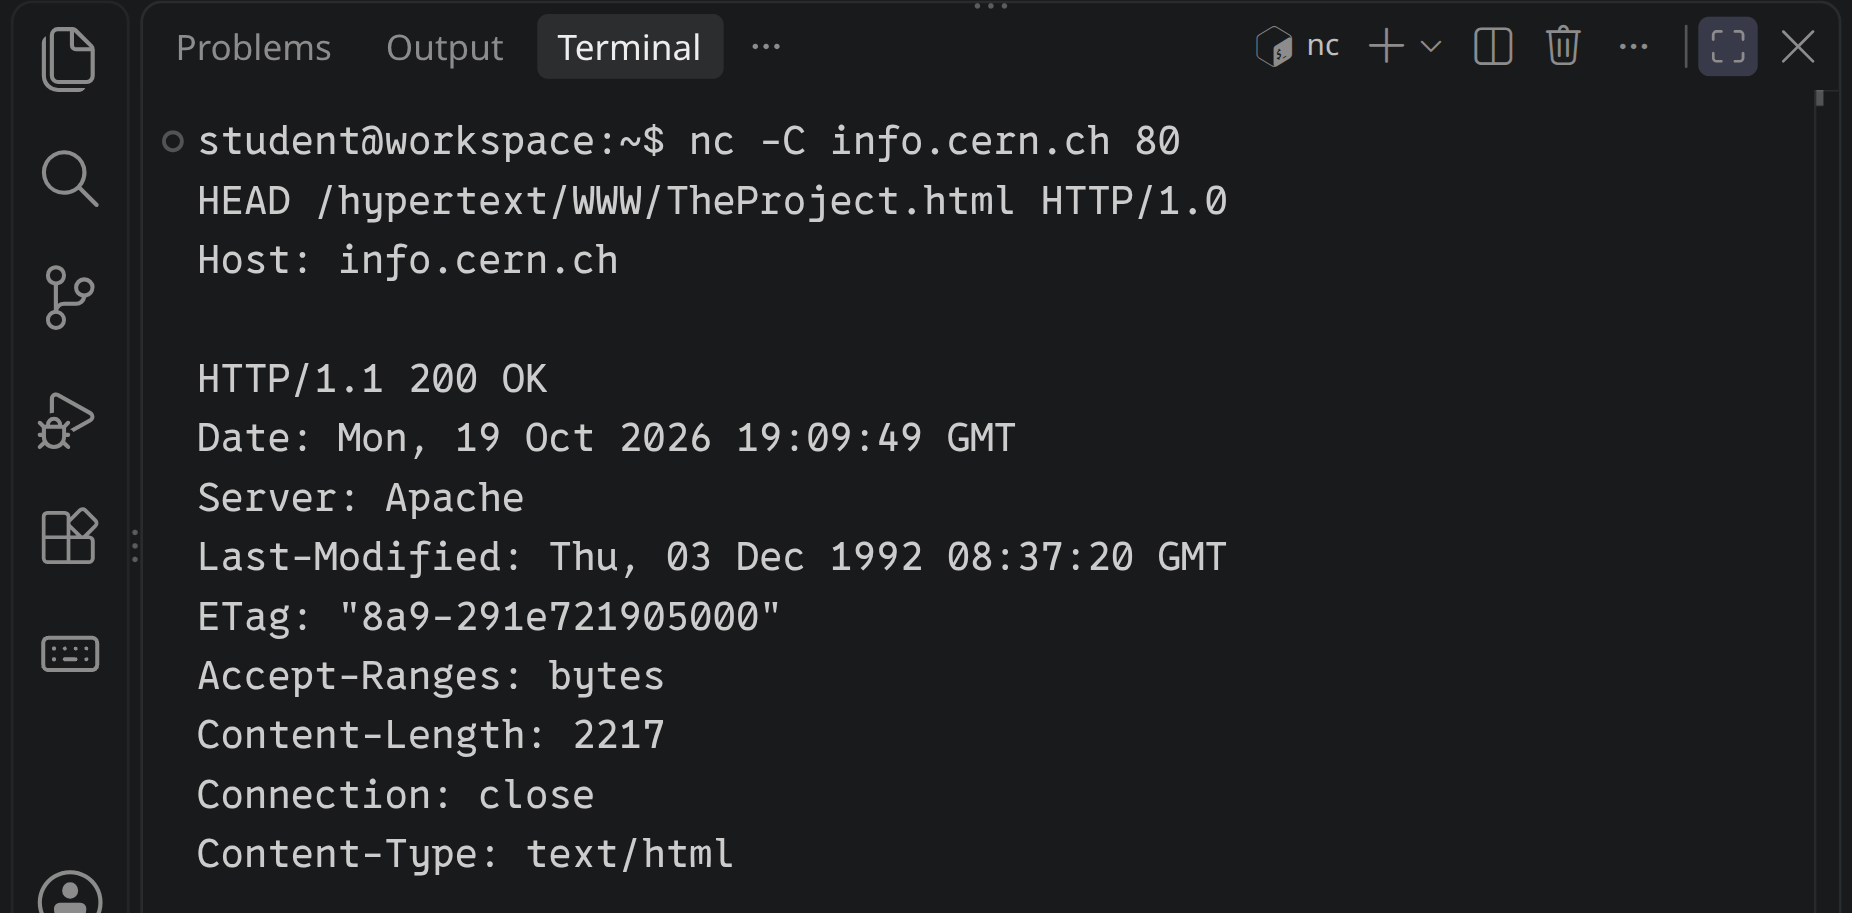
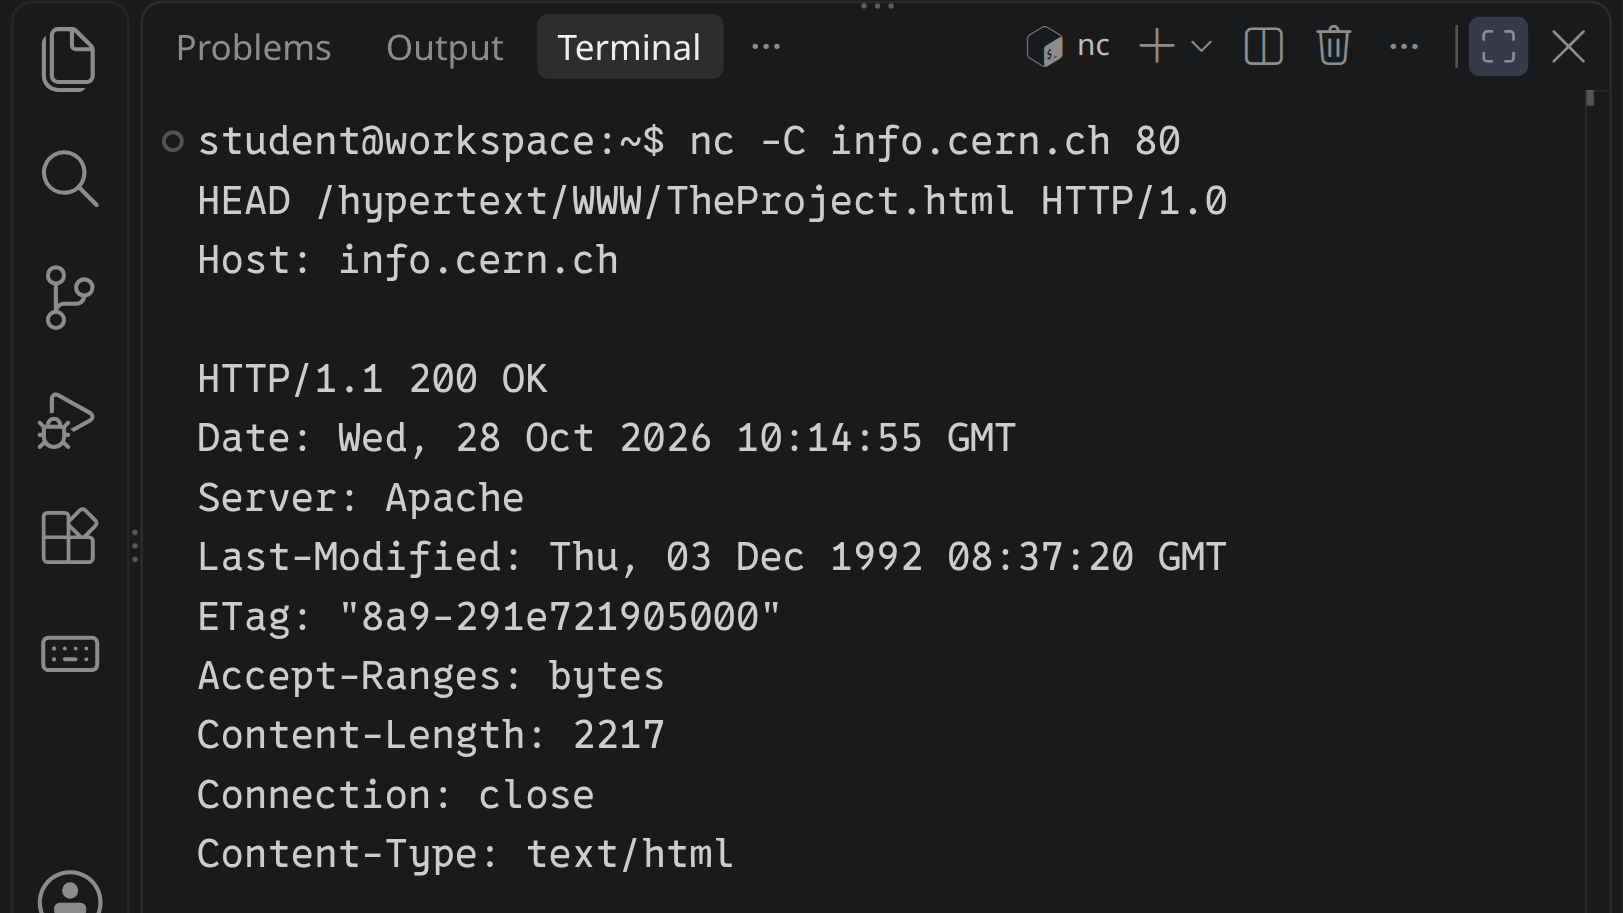
TCP/IP: the card picture 16:9 itself, 902 wide and 13 terminal rows (up to the end of the server's answer), instead of 1029 wide with the card cutting its right side

diff --git a/src/content/tcpip/tcpip.md b/src/content/tcpip/tcpip.md
@@ -1,5 +1,5 @@
 <div class='meta'>
-image: teaser.webp:0:50
+image: teaser.webp
 image_alt: "Ein Terminal, in dem nc eine HTTP-Anfrage an info.cern.ch schickt, darunter die Antwort des Servers"
 kind: labor
 duration: 3 Doppelstunden
@@ -963,9 +963,10 @@ In [Ein eigener Webserver](/webserver) schreibst du die andere Seite selbst: ein
 <!-- tutorial-screenshot
 # Bild für die Karte der Aktivität: HTTP von Hand, groß; 700 hoch, weil
 # VS Code 1.140 dem Terminal weniger Platz lässt und sonst der Befehl oben
-# herausscrollt
+# herausscrollt; 902 breit und 13 Zeilen des Terminals (bis zum Ende der
+# Antwort), damit das Bild 16:9 ist und die Karte nichts abschneidet
 zoom: 1.5
-viewport: 1029x700
+viewport: 902x700
 press: Control+Shift+P
 type: Terminal: Kill All Terminals
 press: Enter
@@ -984,6 +985,6 @@ press: Enter
 press: Enter
 wait-for-text: Content-Type
 sleep: 1
-crop-terminal-lines: auto
+crop-terminal-lines: 13
 -->
 <img class='teaser' hidden src='teaser.webp' alt='Ein Terminal in großer Schrift: nc -C info.cern.ch 80, die getippte Anfrage HEAD /hypertext/WWW/TheProject.html und die Antwort des Servers mit HTTP/1.1 200 OK und Last-Modified: Thu, 03 Dec 1992.'>
